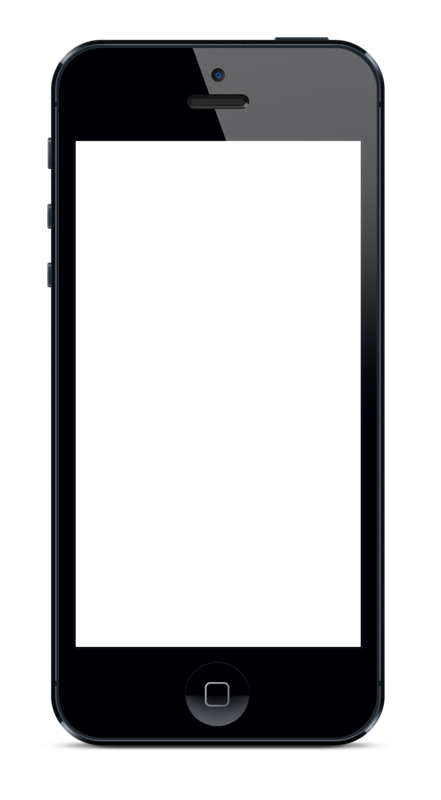
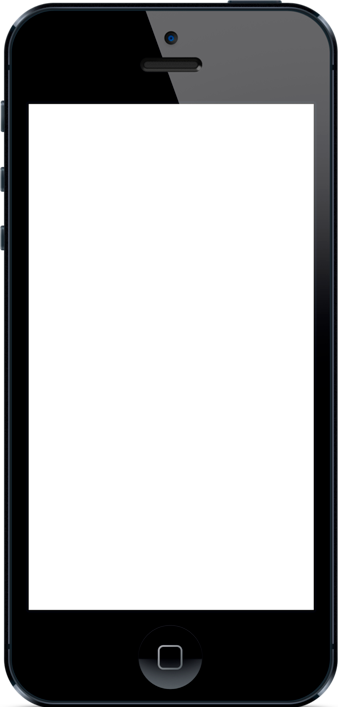
task1 landing_page - ready

diff --git a/task_1/landing page/css/index.css b/task_1/landing page/css/index.css
@@ -73,8 +73,9 @@ header{
 }
 
 #content img{
-	width: 311px;
-	margin: 40px 255px 0 127px;
+	width: 205px;
+	height: 435px;
+	margin: 60px 170px 0 270px;
 	float: left;
 }
 
@@ -102,14 +103,14 @@ header{
 	color: white;
 	font-size: 20px;
 	border-radius: 10px;
-	margin: 55px 0 65px 0;
+	margin: 55px 0 95px 0;
 	background-color:#1abc9c ;
 }
 
 #whiteBlock{
 	height: 400px;
 	background-color: white;
-	margin-top: 85px;
+	margin-top: 0;
 	padding-top: 30px;
 	/*width: 1600px;
 	margin: 85px auto;*/
@@ -195,7 +196,6 @@ header{
 	width: 590px;
 	font-size: 20px;
 	height: 120px;
-	color: red;
 	padding-left: 10px; 
 }
 
@@ -206,4 +206,12 @@ input::-webkit-input-placeholder {
 textarea::-webkit-input-placeholder {
     color: #757575;
 	font-family: "Open Sans";
-    } 
+    }
+textarea::-moz-placeholder{
+	color:#757575;
+	font-family: "Open sans";
+	}/* Firefox 19+ */
+input::-moz-placeholder{
+	color:#757575;
+	font-family: "Open sans";
+	}/* Firefox 19+ */
